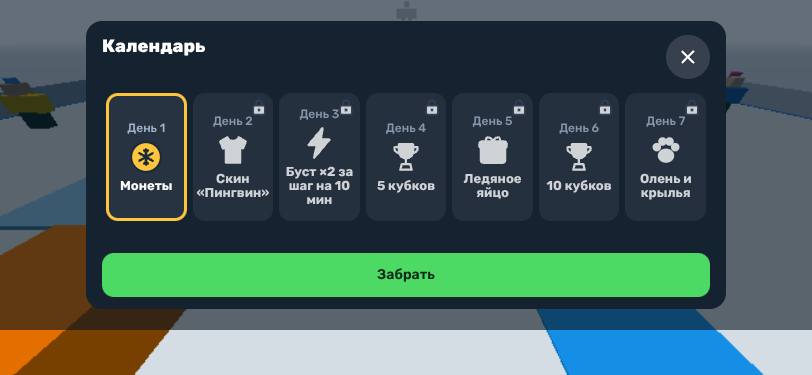
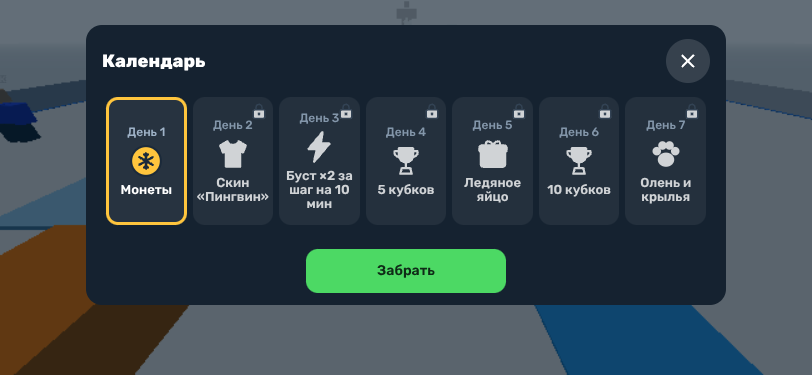
Круг правок MU, правка 6: магазин — картинки кроссовок, «+N за шаг», обе валюты; «Забрать» календаря по «Продолжить»
У кроссовок SVG-картинка вместо пустого квадрата; «+N за шаг» в карточках и тосте
покупки, как на кнопке HUD (Q-MU-11, решение штаба); кнопка или замок карточки
прижаты к низу — в ряду на одной линии; в шапке магазина монеты и кубки на любой
вкладке; «Забрать» календаря шириной 200, как «Продолжить».
e2e touch-mu-screens «round of fixes 6» — зелёный.

Claude-Session: https://claude.ai/code/session_01MGDb63ux6rQPMZQYBdfuka

diff --git a/e2e/touch-mu-screens.spec.ts b/e2e/touch-mu-screens.spec.ts
@@ -303,6 +303,47 @@ test.describe('MU phone screens', () => {
     });
   }
 
+  test('round of fixes 6 (staff 19.10): sneakers drawn, «+N per step», buttons of a row on one line, both balances in the shop head; «Take» of the calendar no wider than «Continue»', async ({ page, openGame }) => {
+    await openGame('pace=stages');
+    await prepare(page, `window.__TEST__.setStat(${threshold(30)});`);
+    await tap(page, 'pause');
+    const cont = await page.locator('.mu-continue').boundingBox();
+    await page.keyboard.press('Escape');
+    await expect(page.locator('[data-role="window"].open')).toHaveCount(0);
+    await page.waitForTimeout(400);
+    await tap(page, 'menu-shop');
+    await page.locator('[data-hud="shop-tab-shoes"]').click();
+    const win = page.locator('[data-role="window"].open');
+    await expect(win.locator('[data-role="shop-coins"] svg')).toHaveCount(1);
+    await expect(win.locator('[data-role="shop-trophies"] svg')).toHaveCount(1);
+    await expect(win.locator('[data-role="shop-trophies"]')).toHaveText('3');
+    const cards = win.locator('[data-role="shop-grid"] .card');
+    expect(await cards.count()).toBeGreaterThan(1);
+    expect(await win.locator('[data-role="shop-grid"] .card-swatch').count(), 'no empty squares').toBe(0);
+    expect(await win.locator('[data-role="shop-grid"] .card-pic svg').count()).toBe(await cards.count());
+    await expect(win.locator('[data-role="shop-grid"] .card-big').first()).toHaveText(/^\+\d+ за шаг$/);
+    // The last element of every card (button or lock) ends on one line within a row.
+    const rows = await page.evaluate(() => {
+      const out: Record<string, number[]> = {};
+      for (const c of Array.from(document.querySelectorAll('[data-role="window"].open [data-role="shop-grid"] .card'))) {
+        const r = c.getBoundingClientRect();
+        const last = c.lastElementChild!.getBoundingClientRect();
+        (out[Math.round(r.top)] ??= []).push(Math.round(r.bottom - last.bottom));
+      }
+      return Object.values(out);
+    });
+    for (const row of rows) expect(Math.max(...row) - Math.min(...row), `bottoms of a row ${row.join(',')}`).toBeLessThanOrEqual(1);
+    await page.screenshot({ path: 'docs/evidence/MU/w-shop.png' });
+    await page.keyboard.press('Escape');
+    await expect(page.locator('[data-role="window"].open')).toHaveCount(0);
+    await page.waitForTimeout(400);
+    await tap(page, 'menu-more');
+    await page.locator('[data-hud="more-daily"]').click();
+    const take = await page.locator('[data-hud="daily-claim"]').boundingBox();
+    expect(take!.width, '«Take» no wider than «Continue»').toBeLessThanOrEqual(cont!.width + 1);
+    await page.screenshot({ path: 'docs/evidence/MU/w-daily.png' });
+  });
+
   test('MU-06 camp: «Camp · mountain 1», no shoes button, no ads or group buttons on the scene, bot names 11 px', async ({ page, openGame }) => {
     await openGame('pace=stages');
     await prepare(page, `window.__TEST__.setStat(${threshold(30)});`);

diff --git a/src/ui/icons.ts b/src/ui/icons.ts
@@ -75,6 +75,8 @@ export const ICONS: Record<string, string> = {
   rebirthArrow: '<svg viewBox="0 0 24 24" aria-hidden="true"><path d="M19.5 12a7.5 7.5 0 1 1-2.2-5.3" fill="none" stroke="currentColor" stroke-width="2.2" stroke-linecap="round"/><path d="M18.5 2.8v4.6h-4.6" fill="none" stroke="currentColor" stroke-width="2.2" stroke-linecap="round" stroke-linejoin="round"/></svg>',
   calendarLine: '<svg viewBox="0 0 24 24" aria-hidden="true"><rect x="3.5" y="5" width="17" height="15.5" rx="2.5" fill="none" stroke="currentColor" stroke-width="2"/><path d="M3.5 10h17M8 3v4M16 3v4" stroke="currentColor" stroke-width="2" stroke-linecap="round"/></svg>',
   giftLine: '<svg viewBox="0 0 24 24" aria-hidden="true"><rect x="4" y="10" width="16" height="10.5" rx="1.5" fill="none" stroke="currentColor" stroke-width="2"/><rect x="3" y="6.5" width="18" height="4" rx="1.2" fill="none" stroke="currentColor" stroke-width="2"/><path d="M12 6.5v14M12 6.5C11 3.5 7.5 3 7.5 5s3.5 1.5 4.5 1.5zm0 0c1-3 4.5-3.5 4.5-1.5S13 6.5 12 6.5z" fill="none" stroke="currentColor" stroke-width="1.8"/></svg>',
+  /** Round of fixes MU (staff 19.10: the sneaker cards had empty squares): a sneaker from the side, its upper in currentColor. */
+  sneaker: '<svg viewBox="0 0 24 24" aria-hidden="true"><path d="M2.5 16.5v-7c0-.8.7-1.3 1.4-1l3.1 1.4 2.4-2.4c.5-.5 1.3-.4 1.7.2l1.6 2.3c1.9 2.6 5 3.3 7.6 3.6 1 .1 1.7.9 1.7 1.9v1z" fill="currentColor"/><path d="M2.5 16.5H22v1.8c0 .7-.6 1.2-1.2 1.2H3.7c-.7 0-1.2-.5-1.2-1.2z" fill="#fff"/><path d="m8.8 10.6 1.7 1.3M10.4 9.3l1.7 1.3M12 8.1l1.6 1.3" stroke="#fff" stroke-width="1.3" stroke-linecap="round"/></svg>',
   speaker: '<svg viewBox="0 0 24 24" aria-hidden="true"><path d="M4 9h3.5L12 5v14l-4.5-4H4z" fill="none" stroke="currentColor" stroke-width="2" stroke-linejoin="round"/><path d="M15.5 9a4 4 0 0 1 0 6M18 6.5a7.5 7.5 0 0 1 0 11" fill="none" stroke="currentColor" stroke-width="2" stroke-linecap="round"/></svg>',
   speakerOff: '<svg viewBox="0 0 24 24" aria-hidden="true"><path d="M4 9h3.5L12 5v14l-4.5-4H4z" fill="none" stroke="currentColor" stroke-width="2" stroke-linejoin="round"/><path d="m16 9.5 5 5m0-5-5 5" stroke="currentColor" stroke-width="2" stroke-linecap="round"/></svg>',
   /** The rotate screen (docs/07-mobile-ui.md, p1-rotate): a phone with an arc arrow. */

diff --git a/src/ui/shop-panel.ts b/src/ui/shop-panel.ts
@@ -35,6 +35,8 @@ export interface ShopCard {
   action?: string;
   /** MU-12: a set of steps — a round «listen» button in its colour instead of the swatch. */
   sound?: boolean;
+  /** Round of fixes MU: a picture (an icon id, drawn in `color`) instead of the swatch — the sneakers. */
+  pic?: string;
 }
 
 export interface ShopPanelModel {
@@ -45,6 +47,8 @@ export interface ShopPanelModel {
   balance: string;
   coin: boolean;
   cards: ShopCard[];
+  /** Round of fixes MU (staff 19.10): both balances in the head — coins and trophies — whatever the tab. */
+  wallet?: { coins: string; trophies: string };
 }
 
 export interface ShopPanelActions {
@@ -88,9 +92,17 @@ export function coinPrice(text: string): HTMLElement {
 }
 
 export function renderShopPanel(body: HTMLElement, head: HTMLElement, m: ShopPanelModel, a: ShopPanelActions): void {
-  const balance = m.coin ? coinPrice(m.balance) : trophyPrice(m.balance);
-  balance.dataset['role'] = m.coin ? 'shop-coins' : 'shop-trophies';
-  head.appendChild(balance);
+  if (m.wallet) {
+    const coins = coinPrice(m.wallet.coins);
+    coins.dataset['role'] = 'shop-coins';
+    const trophies = trophyPrice(m.wallet.trophies);
+    trophies.dataset['role'] = 'shop-trophies';
+    head.append(coins, trophies);
+  } else {
+    const balance = m.coin ? coinPrice(m.balance) : trophyPrice(m.balance);
+    balance.dataset['role'] = m.coin ? 'shop-coins' : 'shop-trophies';
+    head.appendChild(balance);
+  }
   const tabs = el('div', 'win-tabs');
   for (const id of m.tabs) {
     const b = el('button', id === m.tab ? 'win-tab on' : 'win-tab', t(`shop.tab.${id}`));
@@ -105,7 +117,12 @@ export function renderShopPanel(body: HTMLElement, head: HTMLElement, m: ShopPan
     const card = el('div', c.state === 'on' ? 'card on' : c.state === 'locked' ? 'card locked' : 'card');
     card.dataset['item'] = c.id;
     if (c.sound) card.appendChild(playButton(c.color, () => a.preview?.(c.id)));
-    else {
+    else if (c.pic) {
+      const pic = el('span', 'card-pic');
+      pic.innerHTML = icon(c.pic);
+      pic.style.color = c.color;
+      card.appendChild(pic);
+    } else {
       const sw = el('span', 'card-swatch');
       sw.style.background = c.color;
       card.appendChild(sw);

diff --git a/src/app/cosmetics-view.ts b/src/app/cosmetics-view.ts
@@ -58,6 +58,8 @@ export interface CosmeticsViewDeps {
   trophiesDue?(): boolean;
   /** SD-03 (docs/01-gdd.md 23.3): trophies come from the stage buttons — the plaque shows once there are any. */
   stageTrophies?: boolean;
+  /** Round of fixes MU: both balances for the head of the shop (the phone layout); absent — the tab's own balance. */
+  wallet?(): { coins: string; trophies: string };
 }
 
 export interface CosmeticsView {
@@ -102,7 +104,7 @@ export function createCosmeticsView(d: CosmeticsViewDeps): CosmeticsView {
     };
     const source = tab === 'shoes' || tab === 'eggs' || tab === 'steps' ? d.shopTabs?.[tab] : undefined;
     if (source) {
-      renderShopPanel(body, head, { tab, tabs: tabs(), balance: source.balance(), coin: !(source.trophies?.() ?? false), cards: source.cards() }, { tab: toTab, buy: (id) => source.buy(id), equip: (id) => source.equip?.(id), ...(source.preview ? { preview: source.preview } : {}) });
+      renderShopPanel(body, head, { tab, tabs: tabs(), balance: source.balance(), coin: !(source.trophies?.() ?? false), cards: source.cards(), ...(d.wallet ? { wallet: d.wallet() } : {}) }, { tab: toTab, buy: (id) => source.buy(id), equip: (id) => source.equip?.(id), ...(source.preview ? { preview: source.preview } : {}) });
       return;
     }
     const kind = kindOf(tab);
@@ -118,7 +120,7 @@ export function createCosmeticsView(d: CosmeticsViewDeps): CosmeticsView {
       state: on === x.id ? 'on' : have.includes(x.id) ? 'owned' : trophies >= x.price ? 'buy' : 'short',
       need: t('shop.need', { n: formatNumber(x.price - trophies, d.numSuffix) }),
     }));
-    renderShopPanel(body, head, { tab, tabs: tabs(), balance: formatNumber(trophies, d.numSuffix), coin: false, cards }, {
+    renderShopPanel(body, head, { tab, tabs: tabs(), balance: formatNumber(trophies, d.numSuffix), coin: false, cards, ...(d.wallet ? { wallet: d.wallet() } : {}) }, {
       tab: toTab,
       buy: (id) => void (buyCosmetic(d.save, kind, items(kind), id) && changed()),
       equip: (id) => void (equipCosmetic(d.save, kind, id) && changed()),

diff --git a/src/app/meta-view.ts b/src/app/meta-view.ts
@@ -112,7 +112,7 @@ export function createMetaView(d: MetaViewDeps): MetaView {
       view.apply();
       if (inTrophies) d.hud.setTrophies(formatNumber(wallet.coins, d.numSuffix));
       else d.hud.setCoins(formatNumber(sim.coins, d.numSuffix));
-      d.hud.toast(t('toast.newShoes', { name: t(`shoes.${next.id}`), m: formatNumber(next.mult, d.numSuffix) }));
+      d.hud.toast(t('toast.newShoes', { name: t(`shoes.${next.id}`), m: formatNumber(d.balance.gainPerStep * next.mult, d.numSuffix) }));
       d.trackOnce('shoes_1');
       d.onShoes?.();
       view.update();
@@ -127,9 +127,11 @@ export function createMetaView(d: MetaViewDeps): MetaView {
         return {
           id: x.id,
           name: t(`shoes.${x.id}`),
-          mult: t('shop.perStep', { m: formatMult(x.mult, d.numSuffix) }),
+          // Q-MU-11 (staff 19.10: «+N per step» everywhere): what a step gives in these sneakers, as on the HUD button.
+          mult: t('hud.perStep', { n: formatNumber(d.balance.gainPerStep * x.mult, d.numSuffix) }),
           price: formatNumber(price, d.numSuffix),
           color: d.shoesColor ?? '#ffffff',
+          pic: 'sneaker',
           state,
           need: t('shop.need', { n: formatNumber(Math.max(0, price - funds()), d.numSuffix) }),
           coin: !inTrophies,

diff --git a/src/styles.css b/src/styles.css
@@ -710,4 +710,13 @@ canvas.fallback {
 #ui.mu .tp-locked .mark { margin: 0; }
 #ui.mu .win-grid .card { padding: 6px; gap: 2px; }
 #ui.mu .win-grid .card-swatch { width: 40px; height: 40px; }
+/* Round of fixes MU (staff 19.10): the sneakers drawn, not a square; the button or lock of every card at its bottom, so
+   a row of cards has its buttons on one line (as «Footsteps»). */
+.card-pic { width: 52px; height: 52px; display: inline-flex; flex: none; }
+.card-pic svg { width: 100%; height: 100%; }
+.card.locked .card-pic { opacity: 0.45; }
+#ui.mu .win-grid .card-pic { width: 44px; height: 44px; }
+#ui.mu .win-grid .card > :last-child { margin-top: auto; }
 #ui.mu .btn-primary.ok { background: var(--mu-ok); color: var(--mu-ok-text); }
+/* Round of fixes MU (staff 19.10): «Take» of the calendar no wider than «Continue» of the pause. */
+#ui.mu .dl-foot .btn-primary { width: auto; min-width: 200px; margin-top: 0; padding: 0 24px; }

diff --git a/src/main.ts b/src/main.ts
@@ -1954,6 +1954,8 @@ async function boot(): Promise<void> {
     },
     trophiesDue: () => hudDueNow().has('trophies'),
     stageTrophies: balance.upgrade.currency === 'trophies',
+    // Round of fixes MU (staff 19.10): the phone shop shows both balances in its head.
+    ...(muLayout ? { wallet: () => ({ coins: formatNumber(sim.coins, numSuffix), trophies: formatNumber(save.trophies ?? 0, numSuffix) }) } : {}),
   });
   // The points of the base (docs/01-gdd.md 19.3). The shop: with «Shop» of the HUD; its tab — the sneakers if they are
   // affordable, else the eggs if the egg of the own mountain is, else the sneakers; the hand when one is affordable.

diff --git a/progress.md b/progress.md
@@ -2,12 +2,12 @@
 
 ## Состояние
 - Веха: MU «Мобильный интерфейс» — круг правок по предприёмке штаба 19.10 (8 пунктов), сессия от `main` e6aba09
-- Сделано в круге: 1 — великан ловит «вперёд» на любой встрече, падение сразу за пройденным великаном не катит к нему (Q-MU-12); 2 — весь экран на сенсорном экране; 3 — подписи мира не ближе 8 px к HUD, табличка рубежа на столбе справа; 4 — тосты под полосой этапов; 5 — окна по панели 300
+- Сделано в круге: 1 — великан ловит «вперёд» на любой встрече, падение сразу за пройденным великаном не катит к нему (Q-MU-12); 2 — весь экран на сенсорном экране; 3 — подписи мира не ближе 8 px к HUD, табличка рубежа на столбе справа; 4 — тосты под полосой этапов; 5 — окна по панели 300; 6 — магазин и календарь
 - Решения: Q-MU-11 — штаб: везде «+N за шаг» (правка 6); Q-MU-12 — сборщиком (А); Q-MU-5, Q-MU-6 ждут продюсера
-- Дальше: правки 6–8, один полный verify, итог, push в `main`
+- Дальше: правки 7–8, один полный verify, итог, push в `main`
 - Устройство: облачная сессия, ветка `claude/avalanche-mobile-ui-fixes-xvy0nu`, итог — `git push origin HEAD:main`
 - Последний verify: EXIT=0 на e6aba09 (итог MU, `docs/evidence/MU/verify.txt`); в круге — verify:fast после каждой правки
-- Статус: в работе — правки 6
+- Статус: в работе — правки 7
 
 Пишет сборщик после каждой фичи и в конце каждой вехи. Новые записи — сверху, под заголовком «Записи». Читает продюсер: коротко, по-русски, сначала результат. В других документах этот файл называется «журнал».
 
@@ -50,6 +50,12 @@
 ```
 
 ## Записи
+
+### 2026-10-19 · Круг правок MU, правка 6 · магазин и календарь
+- Сделано: у кроссовок картинка (SVG-знак `sneaker` цвета Скорости) вместо пустого квадрата; «+N за шаг» в карточках и в тосте покупки, как на кнопке HUD (Q-MU-11, решение штаба); кнопка или замок каждой карточки прижаты к низу — в ряду на одной линии; в шапке магазина обе валюты, монеты и кубки, на любой вкладке; «Забрать» календаря не шире «Продолжить» (200 px)
+- Тесты: e2e `touch-mu-screens` «round of fixes 6» — 1 из 1; verify:fast — EXIT=0
+- Данные: `i18n` ru/en (и `_sample`) — `toast.newShoes` «{name}: +{m} за шаг»
+- Разведка: карточки магазина — `ui/shop-panel.ts` (одна модель для всех вкладок), «+N за шаг» — тот же расчёт, что у кнопки HUD (`gainPerStep × mult`)
 
 ### 2026-10-19 · Круг правок MU, правка 5 · окна по панели 300
 - Сделано: «Подарки» целиком в панели 300 px (плитки наград 116 → 108, нижний ряд без среза); вкладки магазина и гардероба — первой строкой середины окна, закреплены над прокруткой (`position: sticky`); у гардероба вкладки переехали из шапки туда же, фигура героя тоже держится при прокрутке
